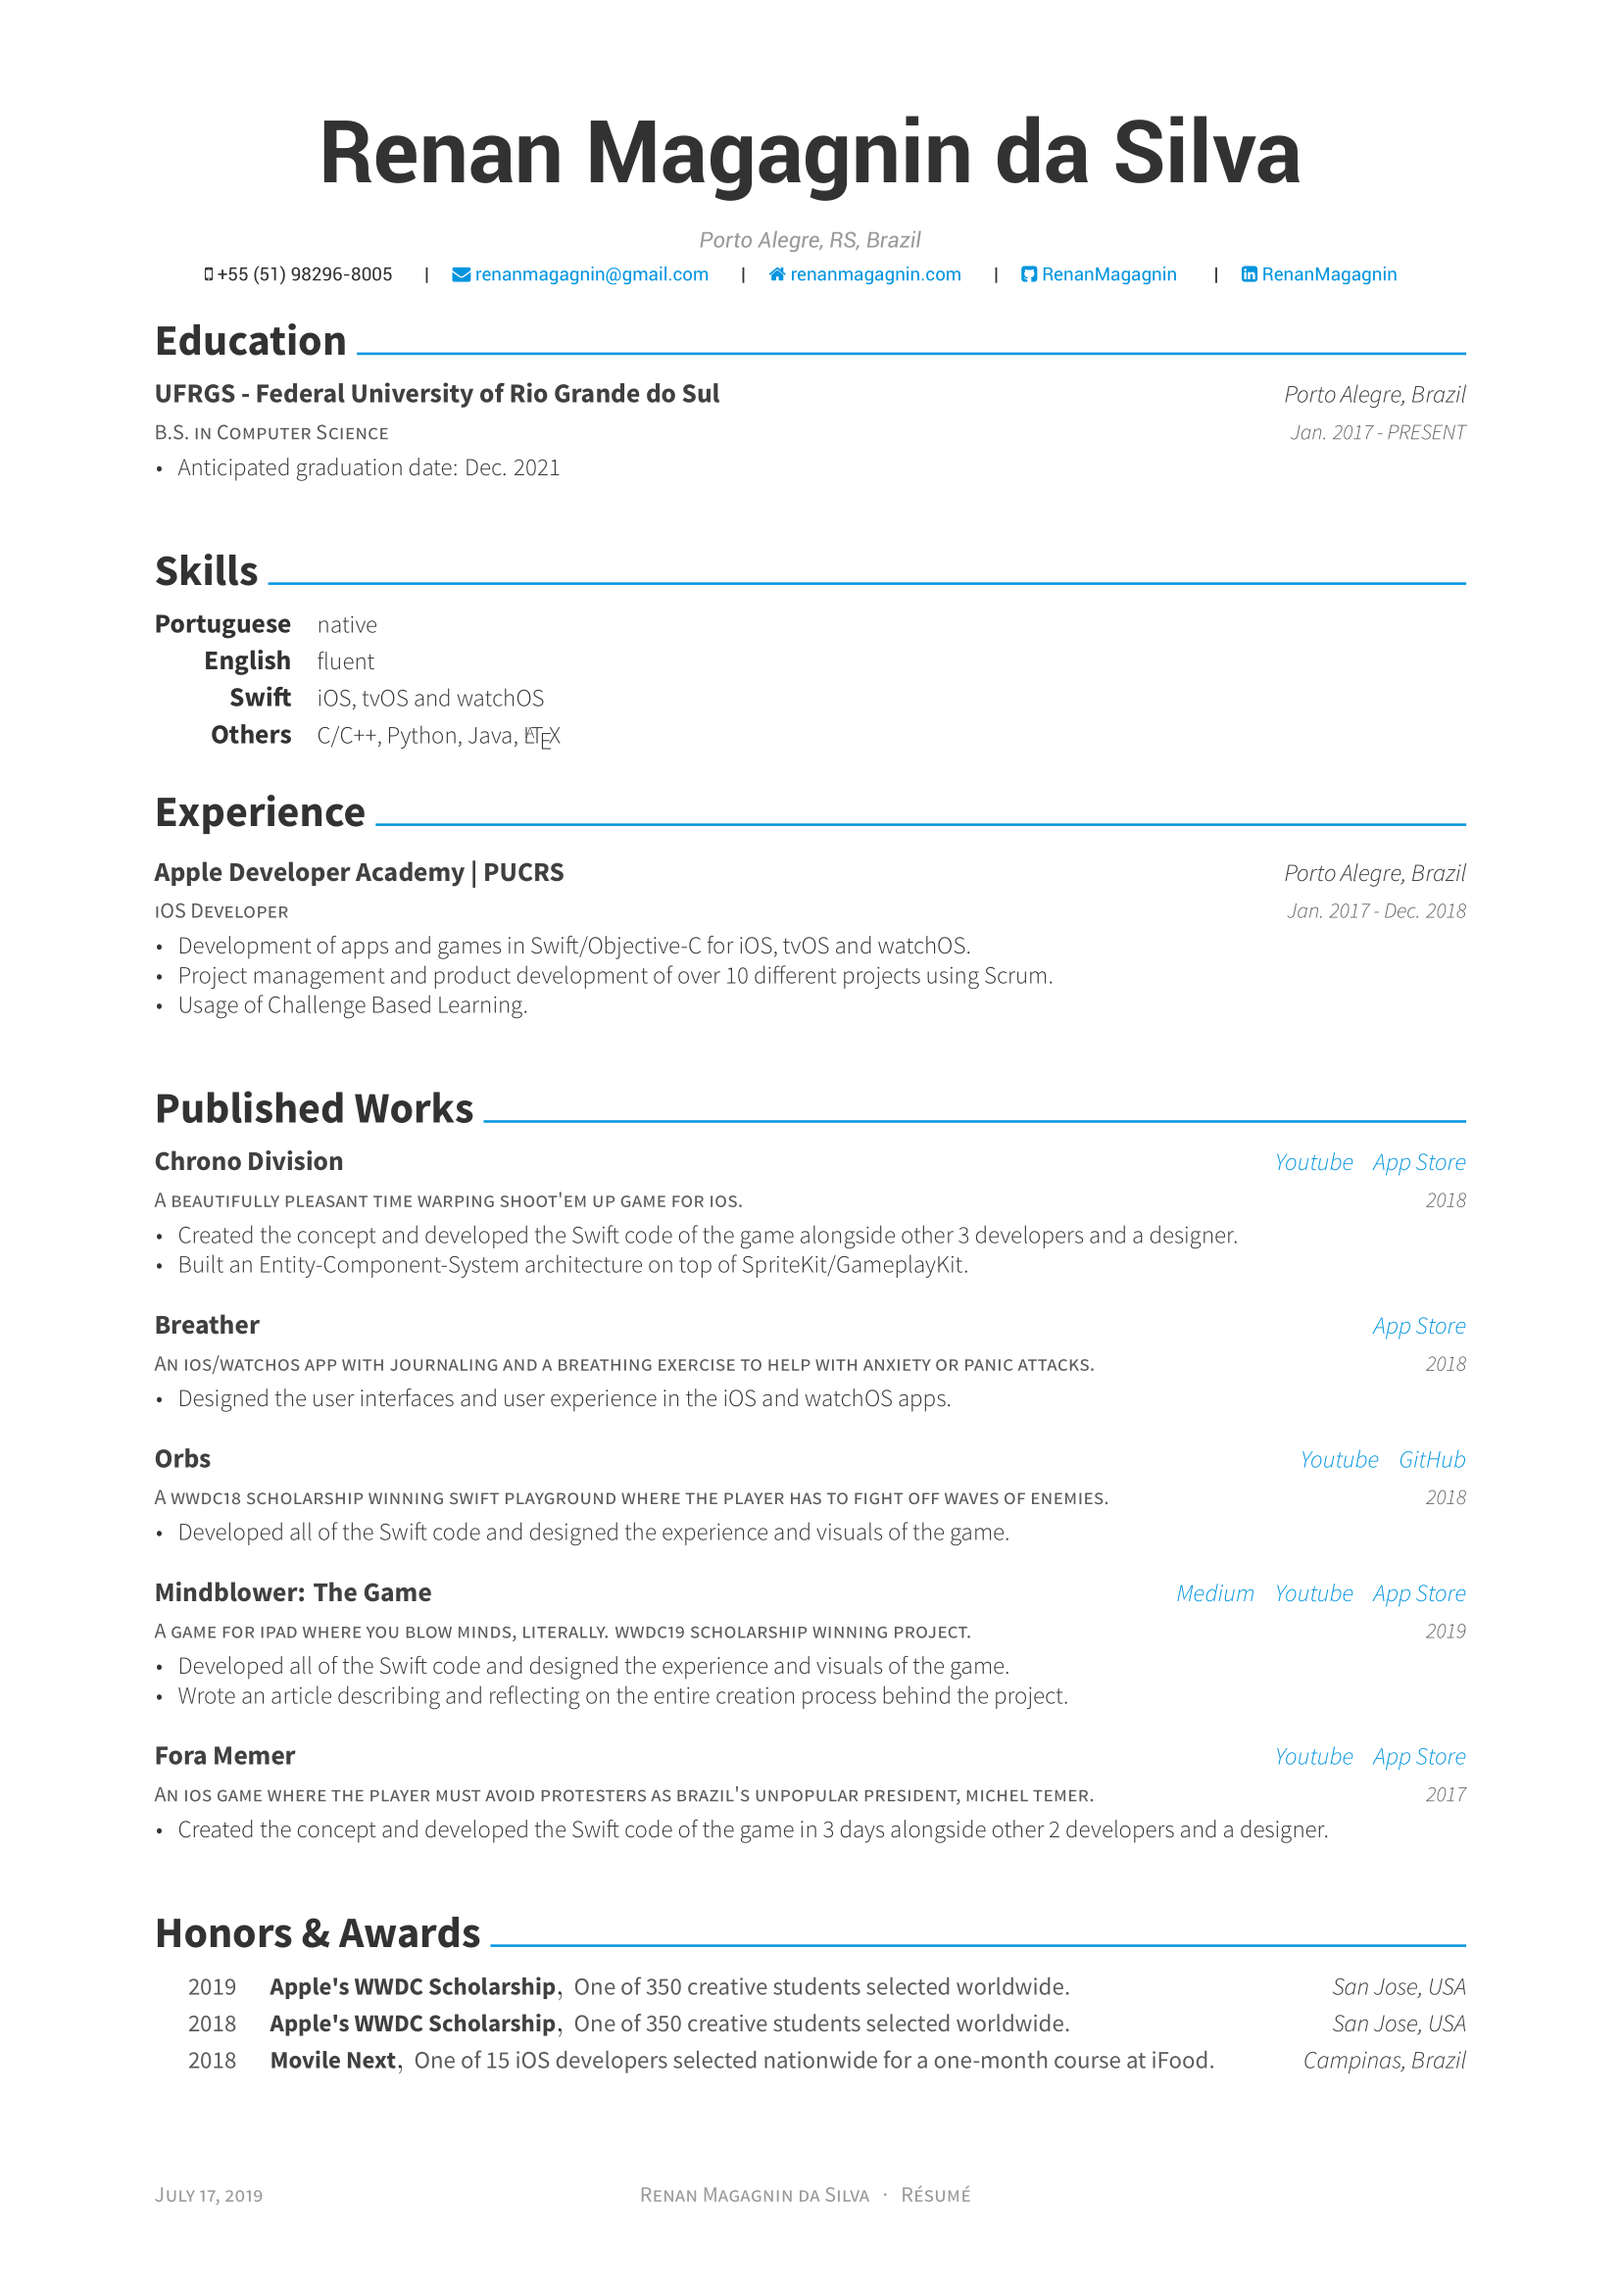
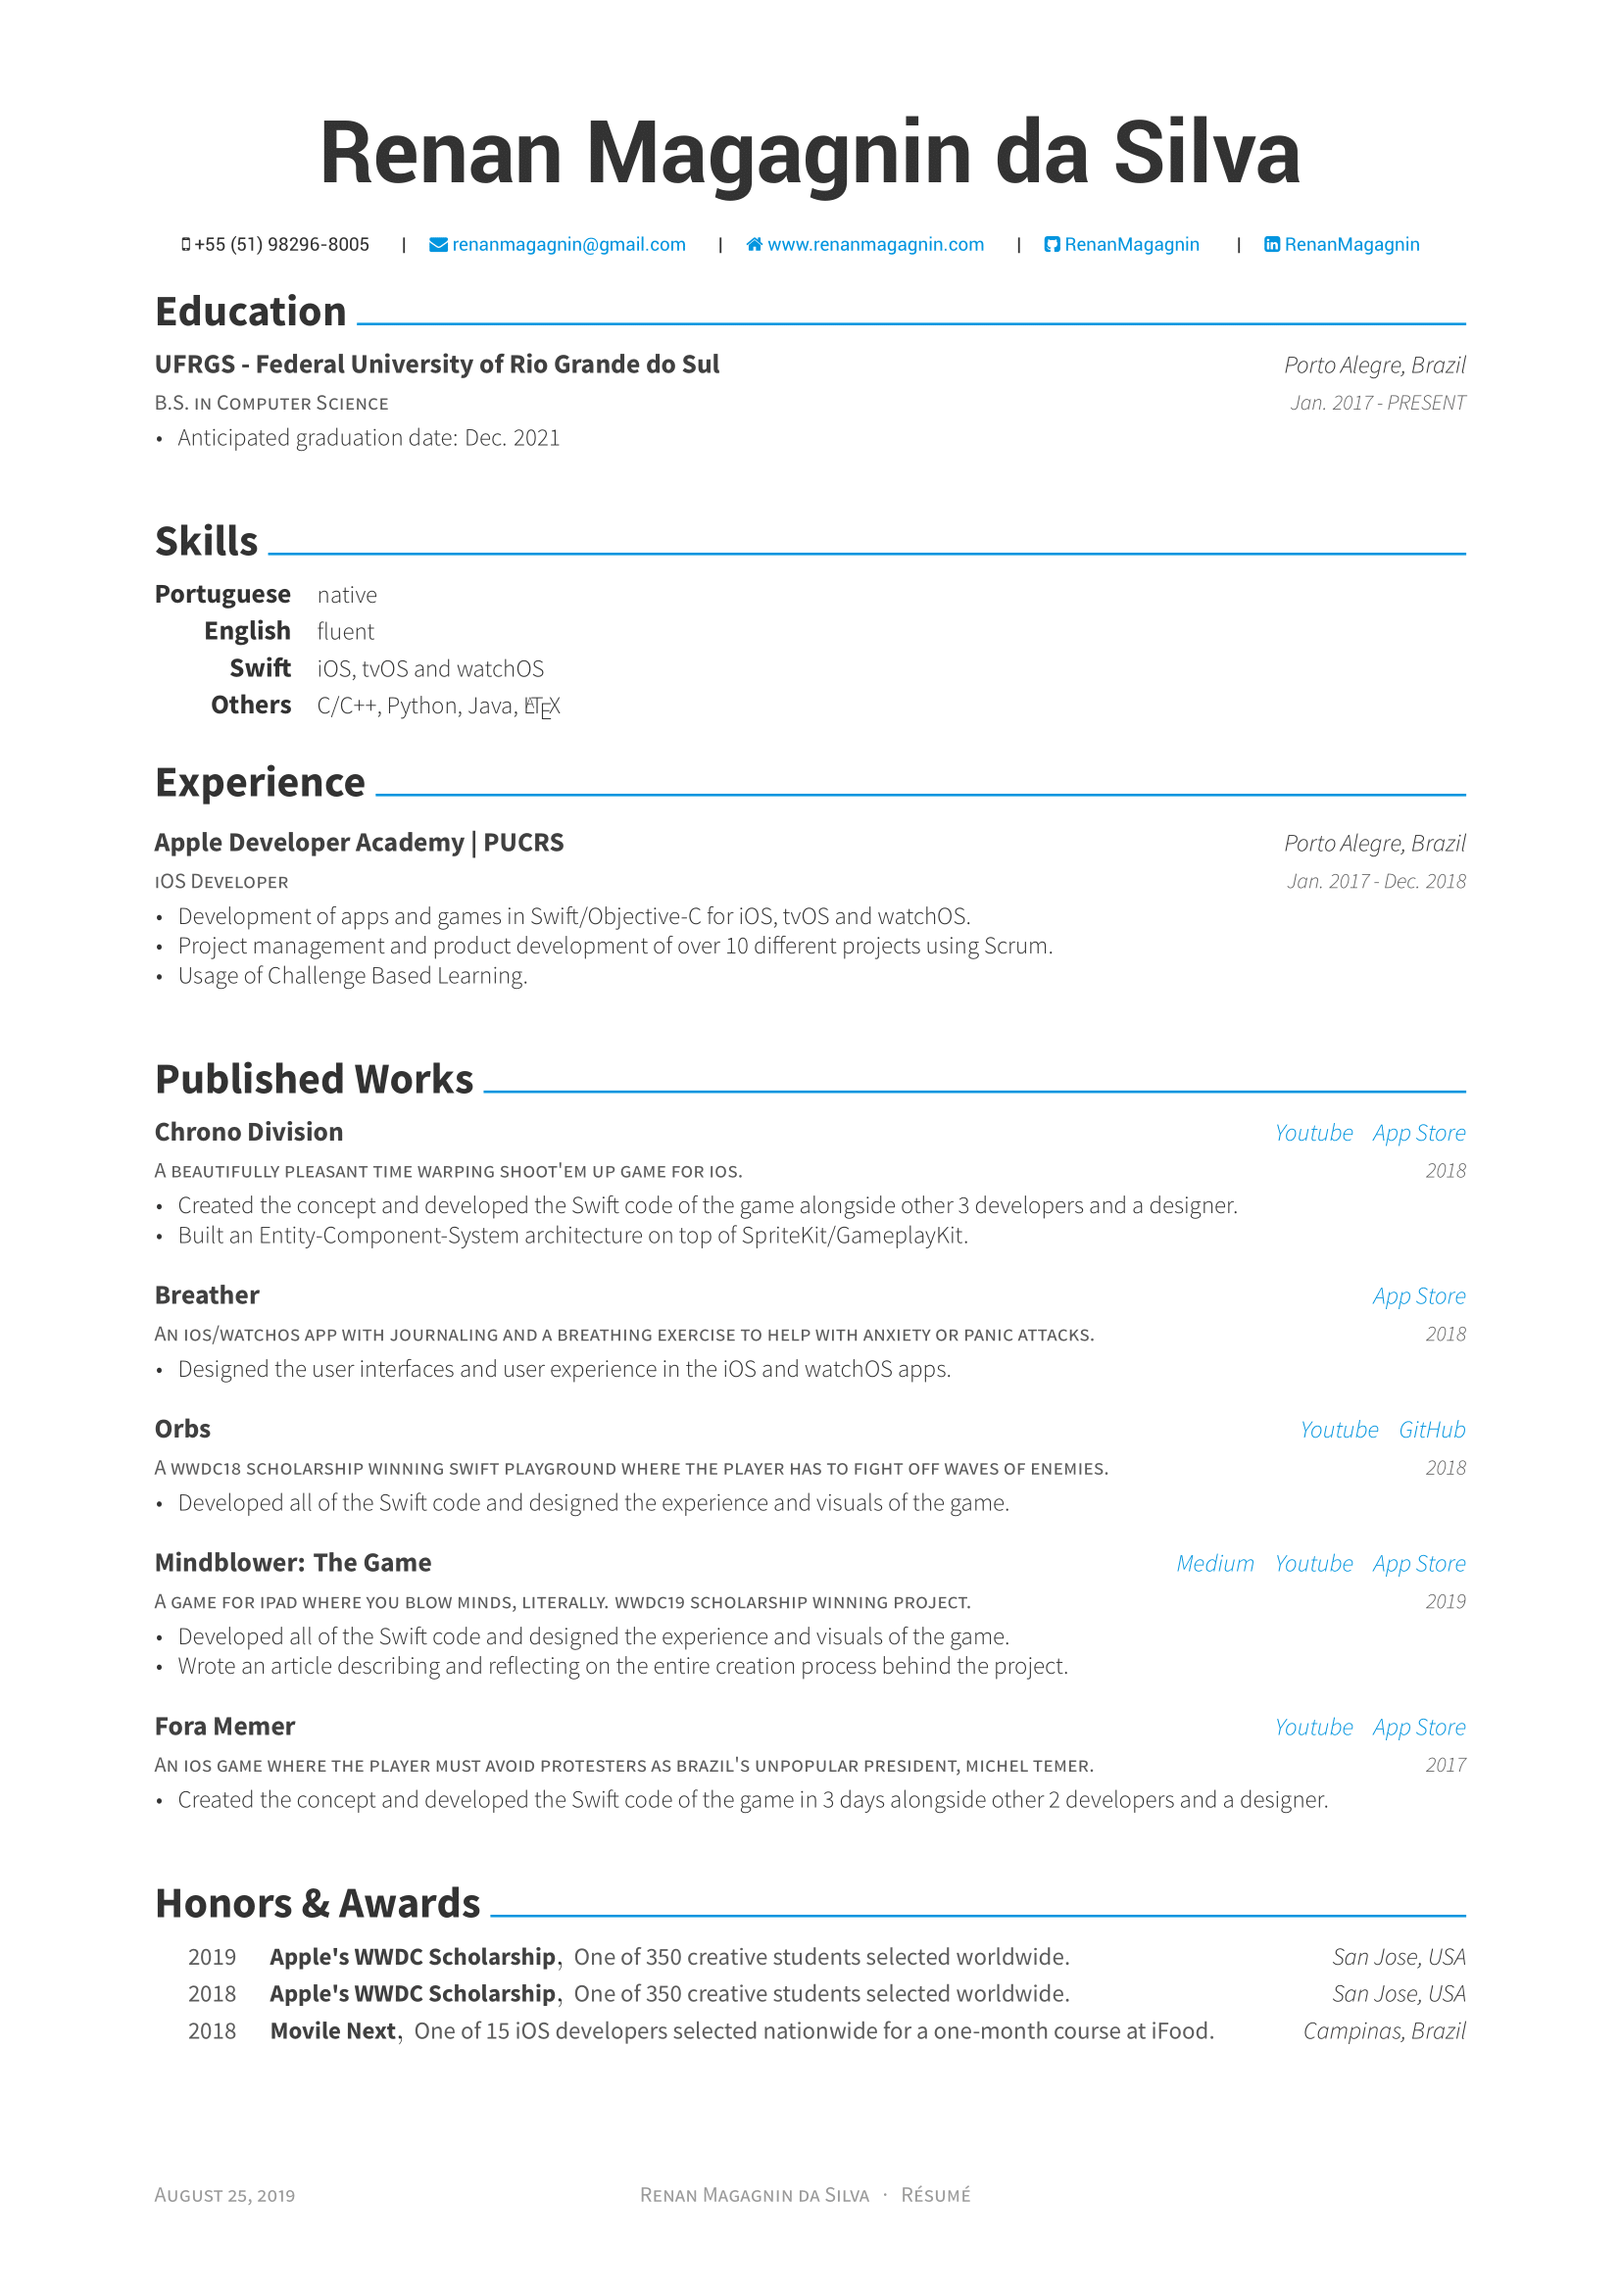
Update personal site link and remove address

diff --git a/resume.tex b/resume.tex
@@ -56,12 +56,13 @@
 %%%%%%%%%%%%%%%%%%%%%%%%%%%%%%%%%%%%%%
 %%% Essentials
 \name{}{Renan Magagnin da Silva}
-\address{  \\ Porto Alegre, RS, Brazil}
+%\address{  \\ Porto Alegre, RS, Brazil}
+\address{  \\ \\ }
 \mobile{+55 (51) 98296-8005}
 %%% Social
 \email{renanmagagnin@gmail.com}
 \github{RenanMagagnin}
-\homepage{renanmagagnin.com}
+\homepage{www.renanmagagnin.com}
 \linkedin{RenanMagagnin}
 
 %%% Optionals
